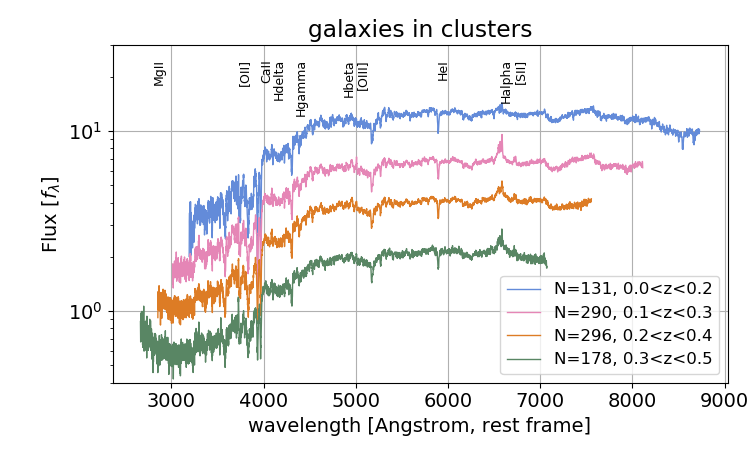
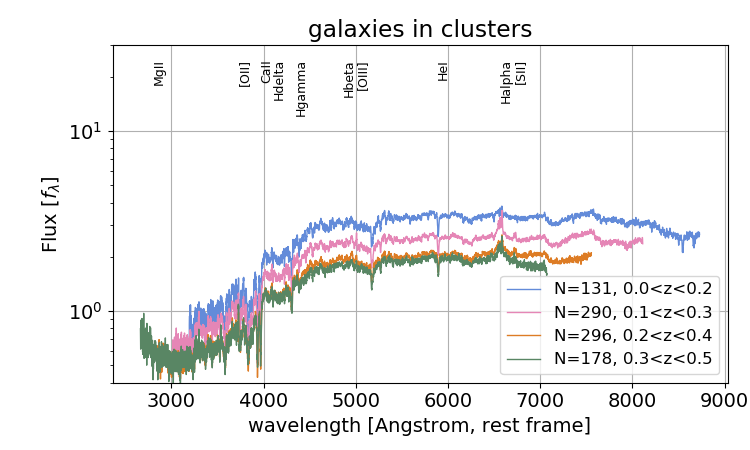
latest firefly catalogue

Changed region(s): [[0.184, 0.2178, 0.9507, 0.84]]

diff --git a/bin_SPIDERS_AGN/plot_stacks.py b/bin_SPIDERS_AGN/plot_stacks.py
@@ -9,6 +9,27 @@ import numpy as n
 import os
 import sys
 
+S16_x, S16_y, S16_yerr = n.loadtxt(os.path.join(os.environ['HOME'],'data/composite_qso_selsing/spectrum.dat'), unpack=True)
+
+
+def get_spec(p_2_f=os.path.join(os.environ['HOME'],'data/SDSS/DR5','spDR2-023-early-type-galaxy.fit'  )):
+	dr5 = fits.open(p_2_f)
+	wave = 10**(dr5[0].header['COEFF0']+dr5[0].header['COEFF1']*n.arange(dr5[0].header['NAXIS1']))
+	spec = dr5[0].data[0]
+	return wave, spec
+
+dr5_024 = get_spec(os.path.join(os.environ['HOME'],'data/SDSS/DR5','spDR2-024-star-forming-galaxy.fit'))
+dr5_026 = get_spec(os.path.join(os.environ['HOME'],'data/SDSS/DR5','spDR2-026-star-forming-galaxy.fit'))
+dr5_025 = get_spec(os.path.join(os.environ['HOME'],'data/SDSS/DR5','spDR2-025-star-forming-galaxy.fit'))
+dr5_027 = get_spec(os.path.join(os.environ['HOME'],'data/SDSS/DR5','spDR2-027-star-forming-galaxy.fit'))
+dr5_028 = get_spec(os.path.join(os.environ['HOME'],'data/SDSS/DR5','spDR2-028-luminous-red-galaxy.fit'))
+dr5_029 = get_spec(os.path.join(os.environ['HOME'],'data/SDSS/DR5','spDR2-029-QSO.fit'                ))
+dr5_030 = get_spec(os.path.join(os.environ['HOME'],'data/SDSS/DR5','spDR2-030-QSOwBAL.fit'            ))
+dr5_031 = get_spec(os.path.join(os.environ['HOME'],'data/SDSS/DR5','spDR2-031-QSOwBAL.fit'            ))
+dr5_032 = get_spec(os.path.join(os.environ['HOME'],'data/SDSS/DR5','spDR2-032-QSO-high-luminosity.fit'))
+
+
+
 class Lines:
     pass
 
@@ -77,6 +98,9 @@ baseNamesSplit = n.array([ bn.split('_')[1] for bn in baseNames ])
 baseNamesSplit2 = n.array([ bn.split('_') for bn in baseNames ])
 #all_type = n.unique(baseNamesSplit.T[0])
 uniq_type = n.unique(baseNamesSplit)
+
+spiders_CGAL_stacks = n.array(glob.glob(os.path.join(os.environ['GIT_MAKESAMPLE'], 'data/stacks_C_GAL/*.stack') ) )
+spiders_CGAL_stacks.sort()
 
 def plot_stacks_agnt1(file_list_i, baseNames_i, path_2_figure='x.png', title='', xtk=n.hstack((n.arange(1000, 5500, 1000), 7000)).astype('int') ):
 	print(path_2_figure)
@@ -187,7 +211,67 @@ def plot_stacks_ClusterGal(file_list_i, baseNames_i, path_2_figure='x.png', titl
 		N_spec = d[1].data['NspectraPerPixel'][sel]
 		#lab = " ".join(labels[3:])
 		lab = str(int(labels[3])/10.)+'<z<'+str(int(labels[5])/10.)  
-		p.plot(x_data, y_data/1.3**jj, lw=1, label='N='+str(int(n.median(N_spec)))+', '+lab ) # str(float(labels[3])/10.)+'<z<'+str(float(labels[5])/10.) + 
+		p.plot(x_data, y_data*3/n.median(y_data)/1.3**jj, lw=1, label='N='+str(int(n.median(N_spec)))+', '+lab ) # str(float(labels[3])/10.)+'<z<'+str(float(labels[5])/10.) + 
+
+	for name, xx  in zip(em_lines.ID[em_lines.sel], em_lines.WL[em_lines.sel] ):
+		#print(xx, 60, name)
+		if xx>2750:
+			p.text(x=xx, y=22, s=name, withdash=True, rotation=90, fontsize=9)#, color='red')
+		#p.plot(xx, 60, marker='|', color='k')# s=name, withdash=True, rotation=90, fontsize=9)#, color='red')
+
+	#for name, xx in zip(abs_lines.ID[abs_lines.sel], abs_lines.WL[abs_lines.sel] ):
+		#print(xx, 1, name)
+		#p.text(x=xx, y=1, s=name, withdash=True, rotation=90, fontsize=9)#, color='blue')
+		#p.plot(xx, 1, marker='|', color='k')# s=name, withdash=True, rotation=90, fontsize=9)#, color='red')
+	#p.xticks([], [])
+	#p.xticks(xtk, xtk)
+	p.yscale('log')
+	#p.xscale('log')
+	p.grid()
+	#p.axvline(2000, color='grey', lw=0.5)
+	#p.axvline(3000, color='grey', lw=0.5)
+	#p.axvline(4000, color='grey', lw=0.5)
+	#p.axvline(6000, color='grey', lw=0.5)
+	#p.xticks([], [])
+	#p.xlim((1000, 7500)) 
+	p.ylim((0.4,30))
+	p.legend(loc=4, fontsize=12)#, frameon=False)
+	p.tight_layout()
+	p.title(title)
+	p.savefig(path_2_figure)
+	p.clf()
+
+
+def plot_stacks_ClusterGal_spiders(file_list_i, baseNames_i, path_2_figure='x.png', title='', xtk=n.hstack((n.arange(1000, 5500, 1000), 7000)).astype('int') ):
+	print(path_2_figure)
+	p.figure(3, (7.5, 4.5), frameon=False )
+	p.axes([0.15, 0.15, 0.82, 0.75])
+	#p.title(baseNames_i[0].split('_')[0]) 
+	p.xlabel('wavelength [Angstrom, rest frame]') 
+	p.ylabel(r'Flux [$f_\lambda$]')
+	
+	for jj, (path_2_spec, labels) in enumerate(zip(file_list_i, baseNames_i)):
+		d = fits.open(path_2_spec)
+		sel = (d[1].data['NspectraPerPixel'] > 0.5*n.max(d[1].data['NspectraPerPixel'])) & (d[1].data['medianStack']>0)
+		x_data = d[1].data['wavelength'][sel]
+		y_data = d[1].data['medianStack'][sel]
+		y_err = d[1].data['jackknifStackErrors'][sel]
+		N_spec = d[1].data['NspectraPerPixel'][sel]
+		#lab = " ".join(labels[3:])
+		lab = str(int(labels[3])/10.)+'<z<'+str(int(labels[5])/10.)  
+		p.plot(x_data, y_data*10/n.median(y_data)/1.5**jj, lw=1, label='N='+str(int(n.median(N_spec)))+', '+lab ) # str(float(labels[3])/10.)+'<z<'+str(float(labels[5])/10.) + 
+
+	
+	for jj, path_2_spec in enumerate(spiders_CGAL_stacks):
+		d = fits.open(path_2_spec)
+		sel = (d[1].data['NspectraPerPixel'] > 0.5*n.max(d[1].data['NspectraPerPixel'])) & (d[1].data['medianStack']>0)
+		x_data = d[1].data['wavelength'][sel]
+		y_data = d[1].data['medianStack'][sel]
+		y_err = d[1].data['jackknifStackErrors'][sel]
+		N_spec = d[1].data['NspectraPerPixel'][sel]
+		#lab = " ".join(labels[3:])
+		lab = os.path.basename(path_2_spec).split('_')[-1][6:-6] #str(int(labels[3])/10.)+'<z<'+str(int(labels[5])/10.)  
+		p.plot(x_data, y_data*10/n.median(y_data)/1.5**(jj+1), lw=1, label='N='+str(int(n.median(N_spec)))+', '+lab ) # str(float(labels[3])/10.)+'<z<'+str(float(labels[5])/10.) + 
 
 	for name, xx  in zip(em_lines.ID[em_lines.sel], em_lines.WL[em_lines.sel] ):
 		#print(xx, 60, name)
@@ -220,6 +304,12 @@ def plot_stacks_ClusterGal(file_list_i, baseNames_i, path_2_figure='x.png', titl
 
 for UT in uniq_type:
 	sel = ( baseNamesSplit == UT )
+	if UT=='CLUGAL':
+		s2 = [0]
+		plot_stacks_ClusterGal_spiders(file_list[sel][s2], baseNamesSplit2[sel][s2], path_2_figure=os.path.join(fig_dir, UT+'.png'), title='passive galaxies in clusters' )
+	if UT=='CLUAGN':
+		s2 = [0]
+		plot_stacks_ClusterGal(file_list[sel][s2], baseNamesSplit2[sel][s2], path_2_figure=os.path.join(fig_dir, UT+'.png'), title='active galaxies in clusters' )
 	if UT=='clusterGAL':
 		s2 = [0,2,4,6]
 		plot_stacks_ClusterGal(file_list[sel][s2], baseNamesSplit2[sel][s2], path_2_figure=os.path.join(fig_dir, UT+'.png'), title='galaxies in clusters' )
@@ -232,14 +322,13 @@ for UT in uniq_type:
 	if UT=='STARS':
 		s2 = [0,1]
 	
-sys.exit()
 
 def plot_single_stack_with_lines(path_2_spec, wmin, wmax, path_2_figure, em_lines, abs_lines):
 	print(path_2_spec, path_2_figure)
 	d = fits.open(path_2_spec)
 	sel = (d[1].data['NspectraPerPixel'] > 0.5*n.max(d[1].data['NspectraPerPixel'])) & (d[1].data['medianStack']>0) & (d[1].data['wavelength']>wmin)&(d[1].data['wavelength']<wmax)
 	x_data = d[1].data['wavelength'][sel]
-	y_data = d[1].data['medianStack'][sel]
+	y_data = d[1].data['medianStack'][sel]/n.median(d[1].data['medianStack'][sel])
 	#print(x_data, y_data)
 	y_err = d[1].data['jackknifStackErrors'][sel]
 	N_spec = d[1].data['NspectraPerPixel'][sel]
@@ -254,27 +343,35 @@ def plot_single_stack_with_lines(path_2_spec, wmin, wmax, path_2_figure, em_line
 		p.xlabel('wavelength [Angstrom, rest frame]')
 		p.ylabel(r'Flux [$f_\lambda$]')#, # 10^{-17}$ erg cm$^{-2}$ s$^{-1}$ A$^{-1}$]')
 		p.xlim((x_data.min()-1, x_data.max()+1)) 
-		p.ylim((y_data.min()-3, y_data.max()+6)) 
+		p.ylim((y_data.min()/5, y_data.max()*10)) 
 		p.grid()
 
-		p.plot(x_data, y_data, lw=2, ls='solid', color='k' )#, label=str(float(labels[2])/10.)+'<z<'+str(float(labels[4])/10.) + ', N='+str(int(n.median(N_spec))) )
-
+		p.plot(x_data, y_data, lw=2, ls='solid', color='k', label='SPIDERS-DR16' )#, label=str(float(labels[2])/10.)+'<z<'+str(float(labels[4])/10.) + ', N='+str(int(n.median(N_spec))) )
+		#S16_sel = (S16_x>wmin)&(S16_x<wmax)
+		#p.plot(S16_x[S16_sel], S16_y[S16_sel]/n.median(S16_y[S16_sel]), lw=1, ls='solid', color='grey', label='Selsing 16' )
+		dr5_x, dr5_y = dr5_029
+		DR5_sel = (dr5_x>wmin)&(dr5_x<wmax)
+		p.plot(dr5_x[DR5_sel], dr5_y[DR5_sel]/n.median(dr5_y[DR5_sel])*1.5, lw=1, ls='solid', color='green', label='DR5 029' )
+		
+		dr5_x, dr5_y = dr5_032
+		DR5_sel = (dr5_x>wmin)&(dr5_x<wmax)
+		p.plot(dr5_x[DR5_sel], dr5_y[DR5_sel]/n.median(dr5_y[DR5_sel])*2, lw=1, ls='solid', color='blue', label='DR5 032' )
 		for name, xx  in zip(em_lines.ID[em_lines.sel2], em_lines.WL[em_lines.sel2] ):
 			y_id = n.searchsorted( x_data, xx)
-			y_position = n.max(y_data[n.max([y_id-10,0]):n.min([y_id+10,len(x_data)])])
-			print(xx, name, y_id, y_position)
-			p.text(x=xx, y=y_position+5, s=name, withdash=True, rotation=90, fontsize=9)#, color='red')
-			p.plot(xx, y_position+1.5, marker='|', color='k')# s=name, withdash=True, rotation=90, fontsize=9)#, color='red')
+			y_position = 2*n.max(y_data[n.max([y_id-10,0]):n.min([y_id+10,len(x_data)])])
+			#print(xx, name, y_id, y_position)
+			p.text(x=xx, y=y_position*3.5, s=name, withdash=True, rotation=90, fontsize=9)#, color='red')
+			p.plot(xx, y_position*2., marker='|', color='k')# s=name, withdash=True, rotation=90, fontsize=9)#, color='red')
 
 		for name, xx in zip(abs_lines.ID[abs_lines.sel2], abs_lines.WL[abs_lines.sel2] ):
 			y_id = n.searchsorted( x_data, xx)
 			y_position = n.min(y_data[n.max([y_id-10,0]):n.min([y_id+10,len(x_data)])])
-			print(xx, name, y_id, y_position)
-			p.text(x=xx, y=y_position-2, s=name, withdash=True, rotation=90, fontsize=9)#, color='blue')
-			p.plot(xx, y_position-1, marker='|', color='k')# s=name, withdash=True, rotation=90, fontsize=9)#, color='red')
+			#print(xx, name, y_id, y_position)
+			p.text(x=xx, y=y_position/3.5, s=name, withdash=True, rotation=90, fontsize=9)#, color='blue')
+			p.plot(xx, y_position/2, marker='|', color='k')# s=name, withdash=True, rotation=90, fontsize=9)#, color='red')
 			
-		#p.yscale('log')
-		p.legend(loc=0, fontsize=8, frameon=False)
+		p.yscale('log')
+		p.legend(loc=3, fontsize=8, frameon=False)
 		#p.tight_layout()
 		p.savefig(path_2_figure)
 		p.clf()
@@ -288,7 +385,7 @@ for path_2_spec in file_list:
 	for wmin, wmax in zip(wrange[:-1], wrange[1:]):
 		#wmin=3000
 		#wmax=4000
-		path_2_figure = os.path.join(fig_dir, os.path.basename(path_2_spec)[:-6]+'_wrange_'+str(wmin)+'_'+str(wmax)+'.png')
+		path_2_figure = os.path.join(fig_dir, os.path.basename(path_2_spec)[:-7]+'_wrange_'+str(wmin)+'_'+str(wmax)+'.png')
 		plot_single_stack_with_lines(path_2_spec, wmin, wmax, path_2_figure, em_lines, abs_lines)
 
-	
+sys.exit()

diff --git a/bin_SPIDERS_CLUSTERS/spider_flatten_summary_file.py b/bin_SPIDERS_CLUSTERS/spider_flatten_summary_file.py
@@ -1,5 +1,5 @@
 import astropy.io.fits as fits
-import os
+import os, sys
 import time
 import numpy as n
 t0 = time.time()
@@ -10,7 +10,7 @@ t0 = time.time()
 
 
 dir2 = os.path.join(os.environ['HOME'], 'hegcl', 'SPIDERS')
-#dir1 = os.path.join(os.environ['HOME'], 'data', 'spiders', 'cluster')
+dir2 = os.path.join(os.environ['HOME'], 'data', 'spiders', 'cluster')
 
 #hd = fits.open(os.path.join(dir, 'validatedclusters_catalogue_2018-04-27_version_round123-v1_Xmass123-v1.fits'))[1].data
 #hd = fits.open(os.path.join(dir, 'validatedclusters_catalogue_2018-12-04_version_round1-v1_Xmass1-v1.fits.gz'))[1].data
@@ -122,6 +122,8 @@ header = ", ".join(header1.split())
 out_file = os.path.join(dir2, 'mastercatalogue_FINAL_CODEXID-flat.csv')
 n.savetxt(out_file, DATA, header = header, fmt='%s', delimiter=',')
 
+sys.exit()
+
 out_file_fits = os.path.join(dir2, 'mastercatalogue_FINAL_CODEXID-flat.fits')
 cmd = """stilts tpipe in="""+out_file+""" ifmt=csv omode=out ofmt=fits out="""+out_file_fits
 print(cmd)
@@ -130,7 +132,7 @@ os.system(cmd)
 # then does the matching on the DS machines, spALL is 14G !!
 
 spAll_file = '/home/comparat/data2/firefly/v1_1_0/v5_13_0/catalogs/sdss_eboss_firefly-dr16.fits'
-out_file_fits_all = os.path.join(dir2, 'mastercatalogue_FINAL_CODEXID-flat_DR16_firefly.fits')
+out_file_fits_all = os.path.join(dir2, 'mastercatalogue_FINAL_CODEXID-flat_DR16_firefly2.fits')
 
 
 c0 = """stilts tmatch2 ifmt1=fits ifmt2=fits in1="""+out_file_fits
